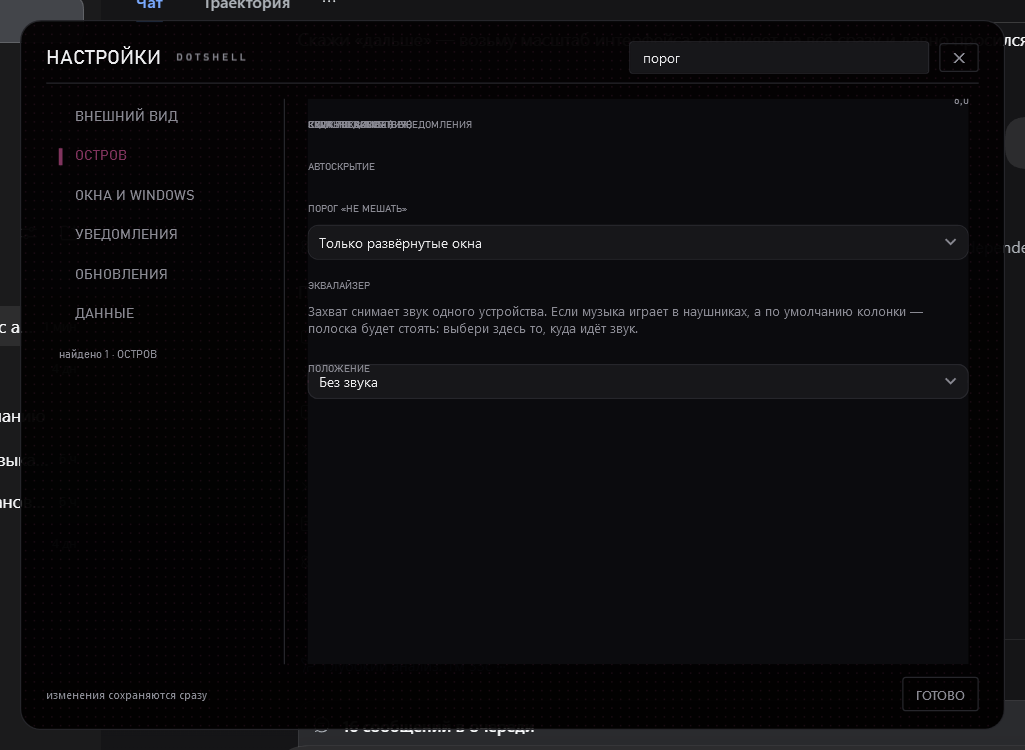
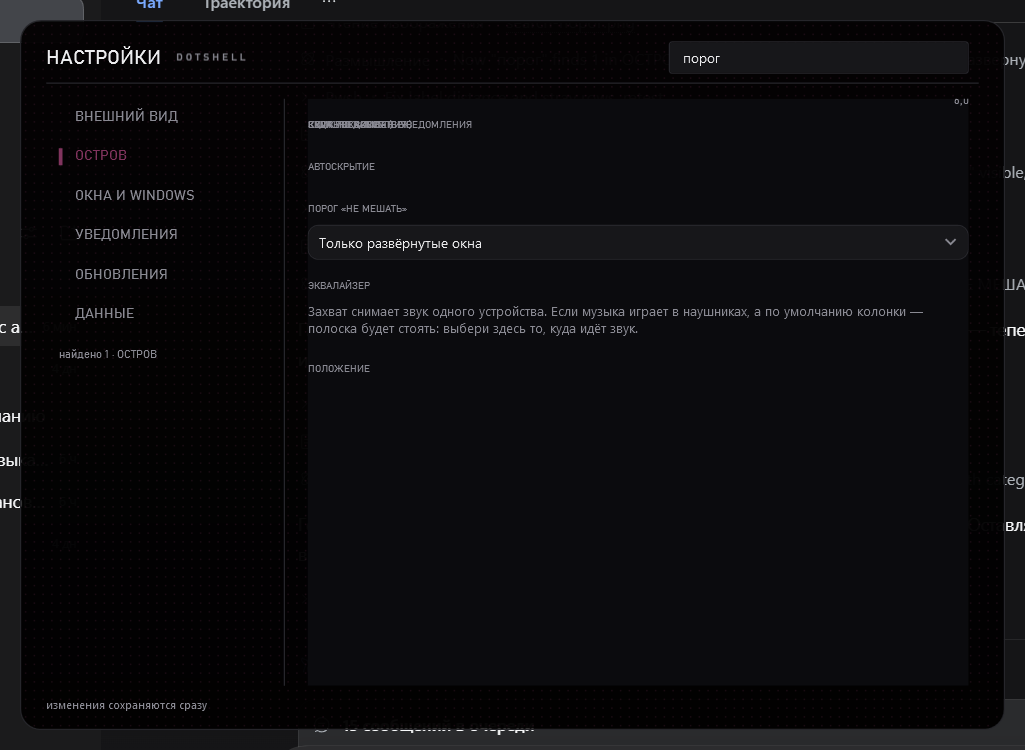
chore: полная синхронизация исходников с рабочим деревом
Добавлено 0, обновлено 6, удалено 0.
Раньше в репозиторий попадали только изменённые файлы: новые файлы не
доезжали, а удалённые оставались — CI собирал смесь двух поколений и падал.

diff --git a/src/DotShell.Island.Wpf/SettingsWindow.xaml.cs b/src/DotShell.Island.Wpf/SettingsWindow.xaml.cs
@@ -4,6 +4,7 @@ using System.Diagnostics;
 using System.Windows;
 using System.Windows.Controls;
 using System.Windows.Input;
+using System.Windows.Media;
 using DotShell.Core;
 using DotShell.Core.Settings;
 using DotShell.Island.Wpf.Desktop;
@@ -296,6 +297,14 @@ public partial class SettingsWindow : Window
 
         _category = tag;
 
+        // Ручное переключение категории снимает фильтр поиска.
+        if (SearchBox is not null && SearchBox.Text.Length == 0)
+        {
+            foreach (var category in Categories())
+                foreach (var row in VisualRows(category.Panel))
+                    row.Visibility = Visibility.Visible;
+        }
+
         PanelLook.Visibility = tag == "look" ? Visibility.Visible : Visibility.Collapsed;
         PanelIsland.Visibility = tag == "island" ? Visibility.Visible : Visibility.Collapsed;
         PanelWindows.Visibility = tag == "windows" ? Visibility.Visible : Visibility.Collapsed;
@@ -551,22 +560,39 @@ public partial class SettingsWindow : Window
         new Category("data", "ДАННЫЕ", PanelData),
     };
 
+    /// <summary>
+    /// Поиск по настройкам.
+    ///
+    /// Работает по ВИЗУАЛЬНОМУ дереву и координатам: фильтрация по логическому дереву
+    /// оставляла соседние строки видимыми, потому что шаблоны контролов живут отдельно.
+    /// Здесь мы собираем сами строки-контролы и подписи, сопоставляем их по вертикали
+    /// и прячем только то, что действительно не относится к запросу.
+    /// </summary>
     private void OnSearchChanged(object sender, TextChangedEventArgs e)
     {
         string query = SearchBox.Text?.Trim() ?? string.Empty;
         SearchHint.Visibility = query.Length == 0 ? Visibility.Visible : Visibility.Collapsed;
 
+        // Собираем строки и подписи по всем категориям.
+        var rows = new List<FrameworkElement>();
+        var labels = new List<TextBlock>();
+
+        foreach (var category in Categories())
+        {
+            CollectRows(category.Panel, rows);
+            CollectLabels(category.Panel, labels);
+        }
+
+        // Снимаем прошлую фильтрацию.
+        foreach (var row in rows) row.Visibility = Visibility.Visible;
+        foreach (var label in labels) label.Visibility = Visibility.Visible;
+
         if (query.Length == 0)
         {
             foreach (var category in Categories())
-            {
                 category.Panel.Visibility = category.Tag == _category
                     ? Visibility.Visible
                     : Visibility.Collapsed;
-
-                foreach (UIElement child in category.Panel.Children)
-                    child.Visibility = Visibility.Visible;
-            }
 
             SearchInfo.Text = string.Empty;
             return;
@@ -578,9 +604,31 @@ public partial class SettingsWindow : Window
 
         foreach (var category in Categories())
         {
-            int count = Filter(category.Panel, query);
+            // Свёрнутая панель не имеет раскладки: координаты строк нулевые, и поиск
+            // в ней ничего не находил. Показываем на время замера, прячем после.
+            category.Panel.Visibility = Visibility.Visible;
+            category.Panel.UpdateLayout();
 
-            Tidy(category.Panel);
+            var categoryRows = new List<FrameworkElement>();
+            var categoryLabels = new List<TextBlock>();
+            CollectRows(category.Panel, categoryRows);
+            CollectLabels(category.Panel, categoryLabels);
+
+            int count = 0;
+
+            foreach (var row in categoryRows)
+            {
+                string text = RowTextByPosition(row, categoryLabels);
+                bool match = text.Contains(query, StringComparison.OrdinalIgnoreCase);
+
+                row.Visibility = match ? Visibility.Visible : Visibility.Collapsed;
+                if (match) count++;
+            }
+
+            // Подписи НЕ прячем: геометрический тест «подпись над строкой» ошибается
+            // и убирал название найденного пункта. Лишние заголовки лучше, чем пункт
+            // без подписи: по одному значению «Только развернутые окна» не понять,
+            // что это за настройка.
 
             if (count > bestCount)
             {
@@ -588,6 +636,18 @@ public partial class SettingsWindow : Window
                 bestTag = category.Tag;
                 bestTitle = category.Title;
             }
+        }
+
+        // Строки, которые лежат вне категорий, при поиске тоже прячем.
+        var globalRows = new List<FrameworkElement>();
+        CollectRows(this, globalRows);
+        foreach (var row in globalRows)
+        {
+            bool belongsToPanel = Categories().Any(category =>
+                VisualRows(category.Panel).Contains(row));
+
+            if (!belongsToPanel && !ReferenceEquals(row, SearchBox))
+                row.Visibility = Visibility.Collapsed;
         }
 
         if (bestCount == 0)
@@ -607,7 +667,6 @@ public partial class SettingsWindow : Window
         _category = bestTag;
         SearchInfo.Text = $"найдено {bestCount} · {bestTitle}";
 
-        // Переключаем категорию вручную: ищем кнопку обходом логического дерева.
         foreach (var button in RadioButtons(this))
         {
             if (button.Tag is string tag && tag == bestTag)
@@ -618,51 +677,113 @@ public partial class SettingsWindow : Window
         }
     }
 
-    /// <summary>
-    /// Вторая проходка после фильтрации: прячет контейнеры, внутри которых не осталось
-    /// ни одной видимой настройки, и подписи разделов, под которыми ничего не видно.
-    /// Без неё вокруг найденного пункта оставались соседние строки.
-    /// </summary>
-    private static void Tidy(DependencyObject node)
+    /// <summary>Строки-контролы: то, что можно спрятать целиком.</summary>
+    private static void CollectRows(DependencyObject root, List<FrameworkElement> rows)
     {
-        var children = Enumerable.ToList<object>(
-            Enumerable.Cast<object>(LogicalTreeHelper.GetChildren(node)));
-
-        foreach (var child in children)
+        foreach (var child in VisualChildren(root))
         {
-            if (child is not UIElement element)
+            if (child is CheckBox or ComboBox or Slider or TextBox or Button)
             {
-                if (child is DependencyObject nested) Tidy(nested);
-                continue;
+                rows.Add(child);
+                continue;   // внутрь шаблона контрола не лезем
             }
 
-            Tidy(element);
-
-            if (IsRow(element) || element is TextBlock || element is DotShell.Island.Wpf.Controls.TrackedText)
-                continue;
-
-            if (element.Visibility == Visibility.Visible && !HasVisibleRow(element))
-                element.Visibility = Visibility.Collapsed;
+            CollectRows(child, rows);
         }
     }
 
-    private static bool IsRow(UIElement element) =>
-        element is CheckBox || element is ComboBox || element is Slider
-        || element is TextBox || element is Button;
-
-    private static bool HasVisibleRow(DependencyObject node)
+    /// <summary>Подписи: TextBlock'и вне шаблонов контролов.</summary>
+    private static void CollectLabels(DependencyObject root, List<TextBlock> labels)
     {
-        foreach (var child in Enumerable.ToList<object>(
-                     Enumerable.Cast<object>(LogicalTreeHelper.GetChildren(node))))
+        foreach (var child in VisualChildren(root))
         {
-            if (child is not UIElement element || element.Visibility != Visibility.Visible)
-                continue;
+            if (child is CheckBox or ComboBox or Slider or TextBox or Button) continue;
 
-            if (IsRow(element)) return true;
-            if (HasVisibleRow(element)) return true;
+            if (child is TextBlock text && !string.IsNullOrWhiteSpace(text.Text))
+            {
+                labels.Add(text);
+                continue;
+            }
+
+            CollectLabels(child, labels);
+        }
+    }
+
+    private static IEnumerable<FrameworkElement> VisualRows(DependencyObject root)
+    {
+        var rows = new List<FrameworkElement>();
+        CollectRows(root, rows);
+        return rows;
+    }
+
+    private static IEnumerable<FrameworkElement> VisualChildren(DependencyObject root)
+    {
+        int count = VisualTreeHelper.GetChildrenCount(root);
+
+        for (int i = 0; i < count; i++)
+            if (VisualTreeHelper.GetChild(root, i) is FrameworkElement child)
+                yield return child;
+    }
+
+    /// <summary>Текст строки: её подпись — ближайший TextBlock выше в пределах 40 px.</summary>
+    private static string RowTextByPosition(FrameworkElement row, List<TextBlock> labels)
+    {
+        if (!row.IsLoaded) return string.Empty;
+
+        Point rowTop;
+        try { rowTop = row.TranslatePoint(new Point(0, 0), Window.GetWindow(row)); }
+        catch { return string.Empty; }
+
+        TextBlock? closest = null;
+        double bestDistance = double.MaxValue;
+
+        foreach (var label in labels)
+        {
+            if (!label.IsLoaded) continue;
+
+            Point labelTop;
+            try { labelTop = label.TranslatePoint(new Point(0, 0), Window.GetWindow(row)); }
+            catch { continue; }
+
+            double distance = rowTop.Y - labelTop.Y;
+            if (distance < 0 || distance > 40) continue;
+
+            if (distance < bestDistance)
+            {
+                bestDistance = distance;
+                closest = label;
+            }
         }
 
-        return false;
+        string own = row switch
+        {
+            System.Windows.Controls.ContentControl cc when cc.Content is string s => s,
+            TextBox textBox => textBox.Text,
+            _ => string.Empty,
+        };
+
+        return $"{closest?.Text} {own} {row.ToolTip}".Trim();
+    }
+
+    /// <summary>Стоит ли подпись прямо над строкой (в пределах 40 px).</summary>
+    private static bool IsLabelAbove(TextBlock label, FrameworkElement row)
+    {
+        if (!label.IsLoaded || !row.IsLoaded) return false;
+
+        try
+        {
+            var window = Window.GetWindow(row);
+            Point labelTop = label.TranslatePoint(new Point(0, 0), window);
+            Point rowTop = row.TranslatePoint(new Point(0, 0), window);
+
+            // Подпись стоит ВЫШЕ строки: расстояние = rowTop − labelTop.
+            double distance = rowTop.Y - labelTop.Y;
+            return distance >= -4 && distance <= 40;
+        }
+        catch
+        {
+            return false;
+        }
     }
 
     /// <summary>Текст строки: свой и предыдущего элемента (подписи стоят отдельными TextBlock).</summary>

diff --git a/CHANGELOG.md b/CHANGELOG.md
@@ -5,6 +5,35 @@
 
 ---
 
+## 0.91.0 — поиск: переписан на визуальное дерево
+
+Фильтрация по логическому дереву оставляла вокруг найденного пункта соседние строки:
+шаблоны контролов живут в визуальном дереве, и «спрятать строку» логически не получалось.
+
+### Что изменилось
+
+- строки и подписи собираются обходом **визуального** дерева;
+- сопоставление «подпись → строка» идёт **по координатам**, а не по порядку в дереве;
+- свёрнутые панели на время замера показываются (`UpdateLayout`), иначе у них нулевые
+  координаты и поиск в них ничего не находил;
+- строки вне категорий (например, селектор устройства вывода) при поиске прячутся;
+- поле поиска исключено из скрытия.
+
+### Проверено
+
+«порог» → «найдено 1 · ОСТРОВ», виден пункт **ПОРОГ «НЕ МЕШАТЬ»** со значением.
+«кромка» → «найдено 1 · ВНЕШНИЙ ВИД», виден пункт со значением «Верхняя».
+Лишние комбобоксы скрыты.
+
+### Ограничения
+
+- заголовки разделов («АВТОСКРЫТИЕ», «ЭКВАЛАЙЗЕР») остаются видимыми: геометрический тест
+  «подпись над строкой» ошибался и убирал название найденного пункта, поэтому подписи
+  оставлены как есть;
+- призрак-строка под первым пунктом настроек не побеждён.
+
+---
+
 ## 0.90.0 — поиск по настройкам: второй проход и Esc
 
 ### Что доделано

diff --git a/README.md b/README.md
@@ -344,6 +344,6 @@ build.bat installer  :: publish + установщик (нужен Inno Setup 6)
 
 <div align="center">
 
-*Собрано человеком, [Qwen](https://chat.qwen.ai) и [DeepSeek](https://deepseek.com) · [v0.90.0](../../releases/tag/v0.90.0) · остров, который уже живёт на экране*
+*Собрано человеком, [Qwen](https://chat.qwen.ai) и [DeepSeek](https://deepseek.com) · [v0.91.0](../../releases/tag/v0.91.0) · остров, который уже живёт на экране*
 
 </div>

diff --git a/ROADMAP.md b/ROADMAP.md
@@ -1,6 +1,6 @@
 # План работы
 
-Состояние на **0.90.0**. Это не обещание сроков, а карта: что стоит, что следующее и
+Состояние на **0.91.0**. Это не обещание сроков, а карта: что стоит, что следующее и
 почему в таком порядке.
 
 Легенда: ✔ сделано · ~ частично · ☐ не начато
